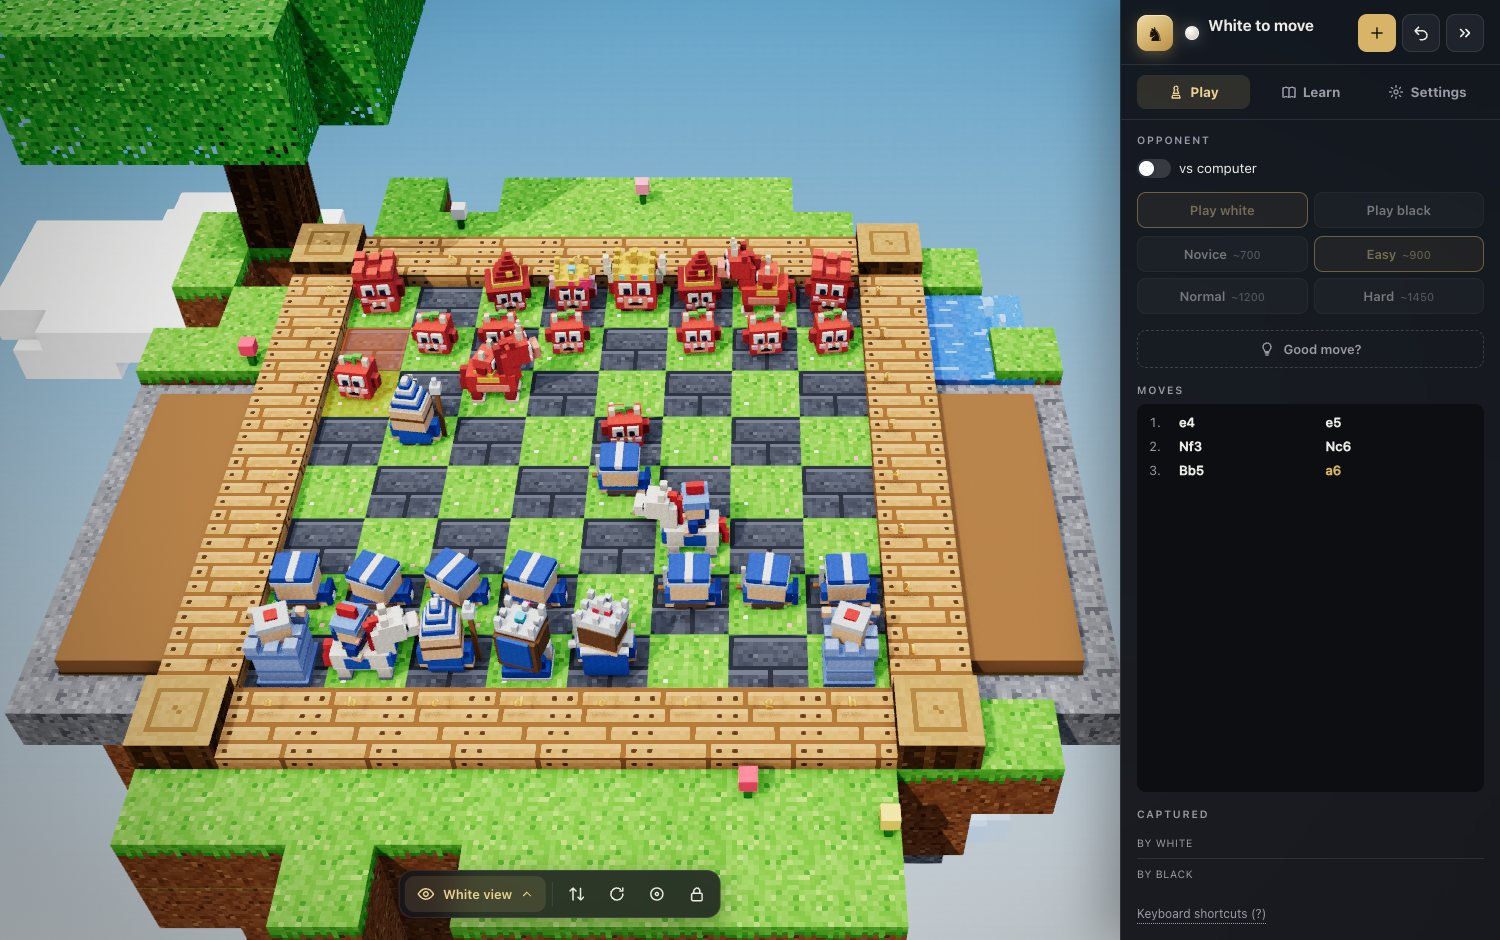
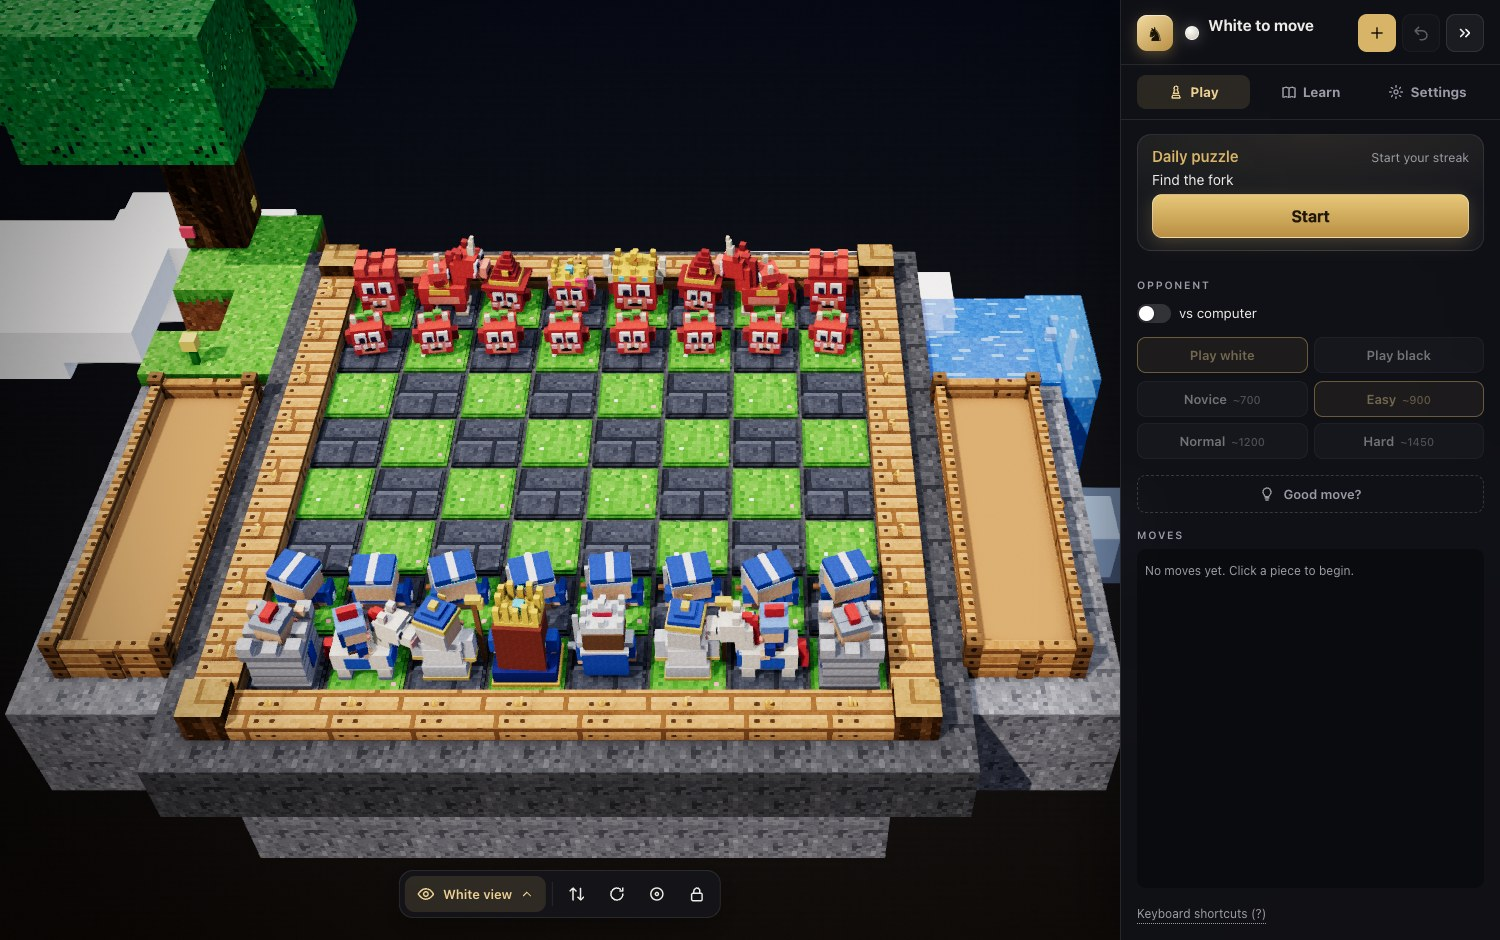
v1.4.0 release prep: version bump, README for the 1.4.0 features and fresh docs screenshots

diff --git a/README.md b/README.md
@@ -34,6 +34,14 @@ The Tournament theme (vinyl green and warm cream squares), the Blocks theme (blo
 
 ![Blocks theme](docs/blocks.jpg)
 
+![Pixelwelt theme](docs/pixel.jpg)
+
+The chess clock (here 5+0, chosen in Settings) with a face for each side, and the Badges card with the daily puzzle card on the Play tab.
+
+![Chess clock running beside the move list](docs/clock.jpg)
+
+![The Badges card in the Learn tab](docs/badges.jpg)
+
 Game review after a game: a move strip with marked mistakes, a gold arrow for the better move and one sentence that says why. Details adds the evaluation graph, the best line and the accuracy of each side. On a desktop the Moves list shows the game and Details open beside the board.
 
 ![Game review: a marked move, the better move and the move strip](docs/review.jpg)
@@ -76,11 +84,11 @@ The Puzzles tab in the Learn sheet is a path of short tactics from the Lichess p
 - A finished chapter (all its stations gold or silver) opens the next one, with all stations lighting up in a wave; the last chapter of a level opens the next level. There is no automatic level change and no streak.
 - Your openings Export and Import (Menu) carry the puzzle path, the daily puzzle streak (`daily`) and the badges (`badges`) too; an older export file without them still imports and leaves them alone. Progress from the earlier puzzle version carries over: what you had solved is gold.
 - Progress is kept in your browser (`chess3d.puzzles`), not in the link.
-- Daily puzzle (Tagesrätsel): on the start screen (the top of the Play tab, on a phone the top of the Game section of the Menu) a card shows one puzzle per calendar day, the same for everyone, picked from the whole set by the local date alone (no server, no account; a new one at local midnight). Start plays it; a solve, clean or with help, marks the day (gold or silver) and the card then says "Heute gelöst". The streak ("3 Tage in Folge") counts consecutive solved days on this device and is kept in `chess3d.daily`; a missed day starts it again. The daily puzzle never changes the path. It is not part of Export and Import yet.
+- Daily puzzle (Tagesrätsel): on the start screen (the top of the Play tab, on a phone the top of the Game section of the Menu) a card shows one puzzle per calendar day, the same for everyone, picked from the whole set by the local date alone (no server, no account; a new one at local midnight). Start plays it; a solve, clean or with help, marks the day (gold or silver) and the card then says "Heute gelöst". The streak ("3 Tage in Folge") counts consecutive solved days on this device and is kept in `chess3d.daily`; a missed day starts it again. The daily puzzle never changes the path. It is part of Export and Import.
 
 ## Badges
 
-Abzeichen: 13 badges in four families, kept per device in `chess3d.badges` (no account, no network). Puzzles: 10, 50 and 100 gold stations. Openings: the first one, 5, and all 27 lines (a line counts once it is in My openings or one of its cards has climbed above the first step). Wins: the first win against each computer level (Novice, Easy, Normal, Hard), recorded at game over in a normal game, never in a puzzle, Explain or Drill. Daily: a best streak of 3, 7 and 30 days. A new badge shows a toast ("Neues Abzeichen: ...") and a short glint on it; old progress earns its badges quietly on load, and a badge is never taken away. The card "Abzeichen" sits in the Learn tab on desktop and as a folded section of the Menu sheet on a phone, with a grid per family (earned ones in colour with their date, locked ones grey with what is missing) and a progress line. Not part of Export and Import yet.
+Abzeichen: 13 badges in four families, kept per device in `chess3d.badges` (no account, no network). Puzzles: 10, 50 and 100 gold stations. Openings: the first one, 5, and all 27 lines (a line counts once it is in My openings or one of its cards has climbed above the first step). Wins: the first win against each computer level (Novice, Easy, Normal, Hard), recorded at game over in a normal game, never in a puzzle, Explain or Drill. Daily: a best streak of 3, 7 and 30 days. A new badge shows a toast ("Neues Abzeichen: ...") and a short glint on it; old progress earns its badges quietly on load, and a badge is never taken away. The card "Abzeichen" sits in the Learn tab on desktop and as a folded section of the Menu sheet on a phone, with a grid per family (earned ones in colour with their date, locked ones grey with what is missing) and a progress line. Part of Export and Import.
 
 ## Controls
 
@@ -127,7 +135,7 @@ Sliders and buttons (Settings tab; Flip, Spin, Reset and Lock are on the view ba
 | Views | White view, Black view, Top down, Side, Isometric, plus four easy views: Symbols (flat chess diagram symbols as in chess books, cream and black with an outline, printed on a plain flat board in the theme's colours; free orbit), Tokens (a flat top view, every piece a thick turned disc with its Staunton silhouette in gold), From above (the real 3D pieces, perspective camera steeply from above at 65 degrees) and Easy 3D (a steep orthographic view, pieces about 1.15 times larger). The easy views show the board in the theme's full colour and as large as the screen allows (on a phone in portrait edge to edge); Tokens and From above lock the tilt and turn (Symbols and Easy 3D orbit freely), Flip, zoom and Reset still work. On phones in portrait also Play, the default there: the board as big as the screen allows, and the camera glides sideways so the selected piece and all its moves, the computer's reply and any hint arrow stay in view. Smooth animated transitions. The choice is remembered per device (a stored Easy flat from an older version becomes Tokens). The Views button on a phone cycles Play, Tokens, Symbols, From above, Easy 3D, then the presets. Tokens, Symbols and Easy 3D skip the battle scenes (From above plays them) |
 | Flip, Spin, Reset | Turn to the other side, toggle auto spin, return to the start view |
 | Board gimbal X, Y, Z | Three sliders from -180 to 180 degrees with a numeric readout, and a Level board button (Settings, under Advanced) |
-| Theme | Classic, Tournament, Wood, Metal, Glass, Blocks: board, frame, pieces and lighting change together. Remembered on this device (Settings tab, or the Menu on a phone) |
+| Theme | Classic, Tournament, Wood, Metal, Glass, Blocks, Pixelwelt: board, frame, pieces and lighting change together. Remembered on this device (Settings tab, or the Menu on a phone) |
 | Lighting | Studio, Gallery, Sunset, Night |
 | Quality | Low, Medium, High |
 | New game, Undo, Keyboard shortcuts | Header buttons and the link at the foot of the Play tab (on a phone: the thumb bar and the Menu) |
@@ -155,7 +163,7 @@ Rendering
 - Chess clock: 3+2, 5+0, 10+0, 15+10 or off (default off), chosen in Settings (Menu on a phone). The clock of the side to move runs, starting with White's first move; each move adds the increment. Against the computer only your clock runs. A flag loses on time, or draws when the opponent has only a king. Lessons and puzzles never use it.
 - Board of white and black marble squares in a walnut frame with a gold inlay, coordinate labels, a plinth and a captured-piece tray on each side of the board (pieces lie inside the tray, never overlapping, ordered by value; the Captured pieces at the side switch in the Scene card, or Menu on a phone, turns the trays off: a captured piece then fades out at the board edge, the camera fits the board alone, and the Captured list in the desktop Play tab appears (it is hidden while the trays show the pieces); the choice is kept per device)
 - Sculpted Staunton pieces: a lathe turned pawn, rook, bishop, queen and king and a modelled knight head. 58k to 83k triangles per piece type
-- Seven themes (Classic, Tournament, Wood, Metal, Glass, Blocks, Pixelwelt), each one bundle of board squares, frame, inlay, pieces and lighting. The piece shapes stay, only materials and colours change (Tournament plays on vinyl green and warm cream squares like a club set). The textures are built on the first pick of a theme and freed again when you leave it. Glass uses real transmission only on the High quality tier; Low and Medium get a tinted lacquer look that costs nothing extra. Blocks is the exception to "the piece shapes stay": a floating block island under a warm evening sky with a board of bevelled grass and stone squares in a slim plank frame, the capture trays as wooden crates, a tree that steps aside when it would stand in front of the board (a bush with two flowers marks its foot, so the corner is never bare), a slow waterfall and drifting clouds that fade out behind the controls (all 32 px pixel textures drawn in code), with block heroes against block critters Pixelwelt (English "Pixel world", `?theme=pixel`) is a second block world with its own look: 16 x 16 pixel textures drawn in code (grass over dirt, stone, cobblestone, sand, oak planks and logs, leaves, water), fixed per face shading like a block game (top brightest, sides darker, no smooth gradients), a board of sand and cobblestone squares flush with the grass in an oak frame, crates for the captured pieces, a square sun and blocky clouds, and figures with blocky proportions (a cube head with an 8 x 8 pixel face, box body, arms and legs): a trader, a stone guardian, an armoured knight on a horse, a robed cleric, a queen and a king against a walker, a dark guardian, a rider, a bone archer, a queen and a king. `?variant=a|b` picks one of two figure sets (a stays closer to the familiar archetypes, b is the default and keeps further away). All textures, shapes and names are our own; nothing is taken from another game.
+- Seven themes (Classic, Tournament, Wood, Metal, Glass, Blocks, Pixelwelt), each one bundle of board squares, frame, inlay, pieces and lighting. The piece shapes stay, only materials and colours change (Tournament plays on vinyl green and warm cream squares like a club set). The textures are built on the first pick of a theme and freed again when you leave it. Glass uses real transmission only on the High quality tier; Low and Medium get a tinted lacquer look that costs nothing extra. Blocks is the exception to "the piece shapes stay": a floating block island under a warm evening sky with a board of bevelled grass and stone squares in a slim plank frame, the capture trays as wooden crates, a tree that steps aside when it would stand in front of the board (a bush with two flowers marks its foot, so the corner is never bare), a slow waterfall and drifting clouds that fade out behind the controls (all 32 px pixel textures drawn in code), with block heroes against block critters. Pixelwelt (English "Pixel world", `?theme=pixel`) is a second block world with its own look: 16 x 16 pixel textures drawn in code (grass over dirt, stone, cobblestone, sand, oak planks and logs, leaves, water), fixed per face shading like a block game (top brightest, sides darker, no smooth gradients), a board of sand and cobblestone squares flush with the grass in an oak frame, crates for the captured pieces, a square sun and blocky clouds, and figures with blocky proportions (a cube head with an 8 x 8 pixel face, box body, arms and legs): a trader, a stone guardian, an armoured knight on a horse, a robed cleric, a queen and a king against a walker, a dark guardian, a rider, a bone archer, a queen and a king. `?variant=a|b` picks one of two figure sets (a stays closer to the familiar archetypes, b is the default and keeps further away). All textures, shapes and names are our own; nothing is taken from another game.
 - Four studio lighting presets: Studio, Gallery, Sunset and Night, with a smooth transition between them
 - Quality tiers Low, Medium and High that change the shadow map size (1024, 2048 or 4096), the pixel ratio cap and the post chain
 - Shadows, bloom, ambient occlusion (High tier), a vignette and grade pass, and a soft reflection of the pieces in the studio floor
@@ -185,7 +193,7 @@ All optional. They are meant for screenshots and tests, but work for anyone.
 | `touch` | `1`, `0` | `1` forces touch mode on (Medium start tier, page gesture blocking), `0` forces it off (desktop behaviour even on a touch device). Without it touch is detected from the primary input. An explicit `quality` wins over the touch start tier |
 | `light` | `Studio`, `Gallery`, `Sunset`, `Night` | Start with this lighting preset |
 | `theme` | `classic`, `tournament`, `wood`, `metal`, `glass`, `blocks`, `pixel` | Start with this theme for this load only (the swatch row remembers the theme you pick, in `localStorage` `chess3d.theme`) |
-| `variant` | `a`, `b` | Pixelwelt figure set, only with `theme=pixel`: `a` stays closer to the familiar archetypes, `b` (the default) keeps further away |
+| `variant` | `a`, `b`, `c` | A taste variant, read by the theme or panel it belongs to. With `theme=pixel`: the Pixelwelt figure set, `a` stays closer to the familiar archetypes, `b` (the default) keeps further away (`c` is read as `b`). With `theme=blocks`: the bishop's mitre, `a` very tall (1.68, taller than the king), `b` (default) shortened so the bishop stays below the king (1.25), `c` in between (1.53). On the Badges card (`open=badges`): the look of the badges, `a` (default) round medals with a ribbon, `b` shield crests in the board colours, `c` block tokens like the Blocks theme. Anything else is the default. Try `?theme=blocks&variant=a` |
 | `view` | `white`, `black`, `top`, `side`, `iso`, `tokens`, `symbols`, `above`, `easy-3d`, `play` | Start in this view for this load only (without it the remembered view, or the device default). `play` only exists on a phone in portrait |
 | `preset` | `White view`, `Black view`, `Top down`, `Side`, `Isometric` | Jump to a view preset |
 | `yaw`, `pitch` | degrees | Set the camera angles |
@@ -206,8 +214,6 @@ All optional. They are meant for screenshots and tests, but work for anyone.
 | `clock` | `off`, `3+2`, `5+0`, `10+0`, `15+10` | Chess clock (minutes plus increment seconds) for this load only; the chooser in Settings (Menu on a phone) remembers your choice in `localStorage` `chess3d.clock`, the flag beats it. In a URL write `5+0` as `5%2B0` or `5+0` (both work). Unknown values are ignored. |
 | `open` | `learn`, `openings`, `mine`, `drill`, `practise`, `puzzles`, `daily`, `badges`, `settings`, `music`, `scene`, `moves`, `clock` | Open this panel or tab once the game is ready (after the start sequence). One value per load. `learn` and `openings` show the Learn tab Openings, `mine`, `practise` and `puzzles` their tabs (`drill` is the Practise tab, which is locked until you have added an opening), `settings` and `scene` the Scene card (on a phone the Menu sheet with it open), `music` the music settings inside it, `moves` the move list, `clock` the clock chooser in Settings, `badges` the Badges card (the Learn tab on desktop, the Menu sheet on a phone), `daily` the Daily puzzle card (the Play tab on desktop, the Game section of the Menu sheet on a phone) without starting it. On a phone the Learn values open the Learn sheet and the others the Menu sheet. An unknown value is ignored without a message. Combines with the other flags, for example `?view=tokens&open=puzzles` |
 | `daily` | `YYYY-MM-DD`, for example `2026-10-03` | Pretend this date is today for the Daily puzzle: it picks that date's puzzle and the streak counts from it (for tests and the release test page; an invalid value is ignored). Solving writes only that date's own record into `localStorage` `chess3d.daily` |
-| `variant` | `a`, `b` (default), `c` | The bishop's mitre on the Blocks theme: `a` very tall (1.68, taller than the king), `b` shortened so the bishop stays below the king (1.25), `c` in between (1.53). Anything else is `b`. Try `?theme=blocks&variant=a` |
-| `variant` | `a` (default), `b`, `c` | The look of the badges on the Badges card only: `a` round medals with a ribbon, `b` shield crests in the board colours, `c` block tokens like the Blocks theme. Anything else is `a`. Try `?open=badges&variant=b` |
 
 Example: `?ai=0&preset=Isometric&light=Sunset&moves=e2e4,e7e5,g1f3,b8c6`
 
